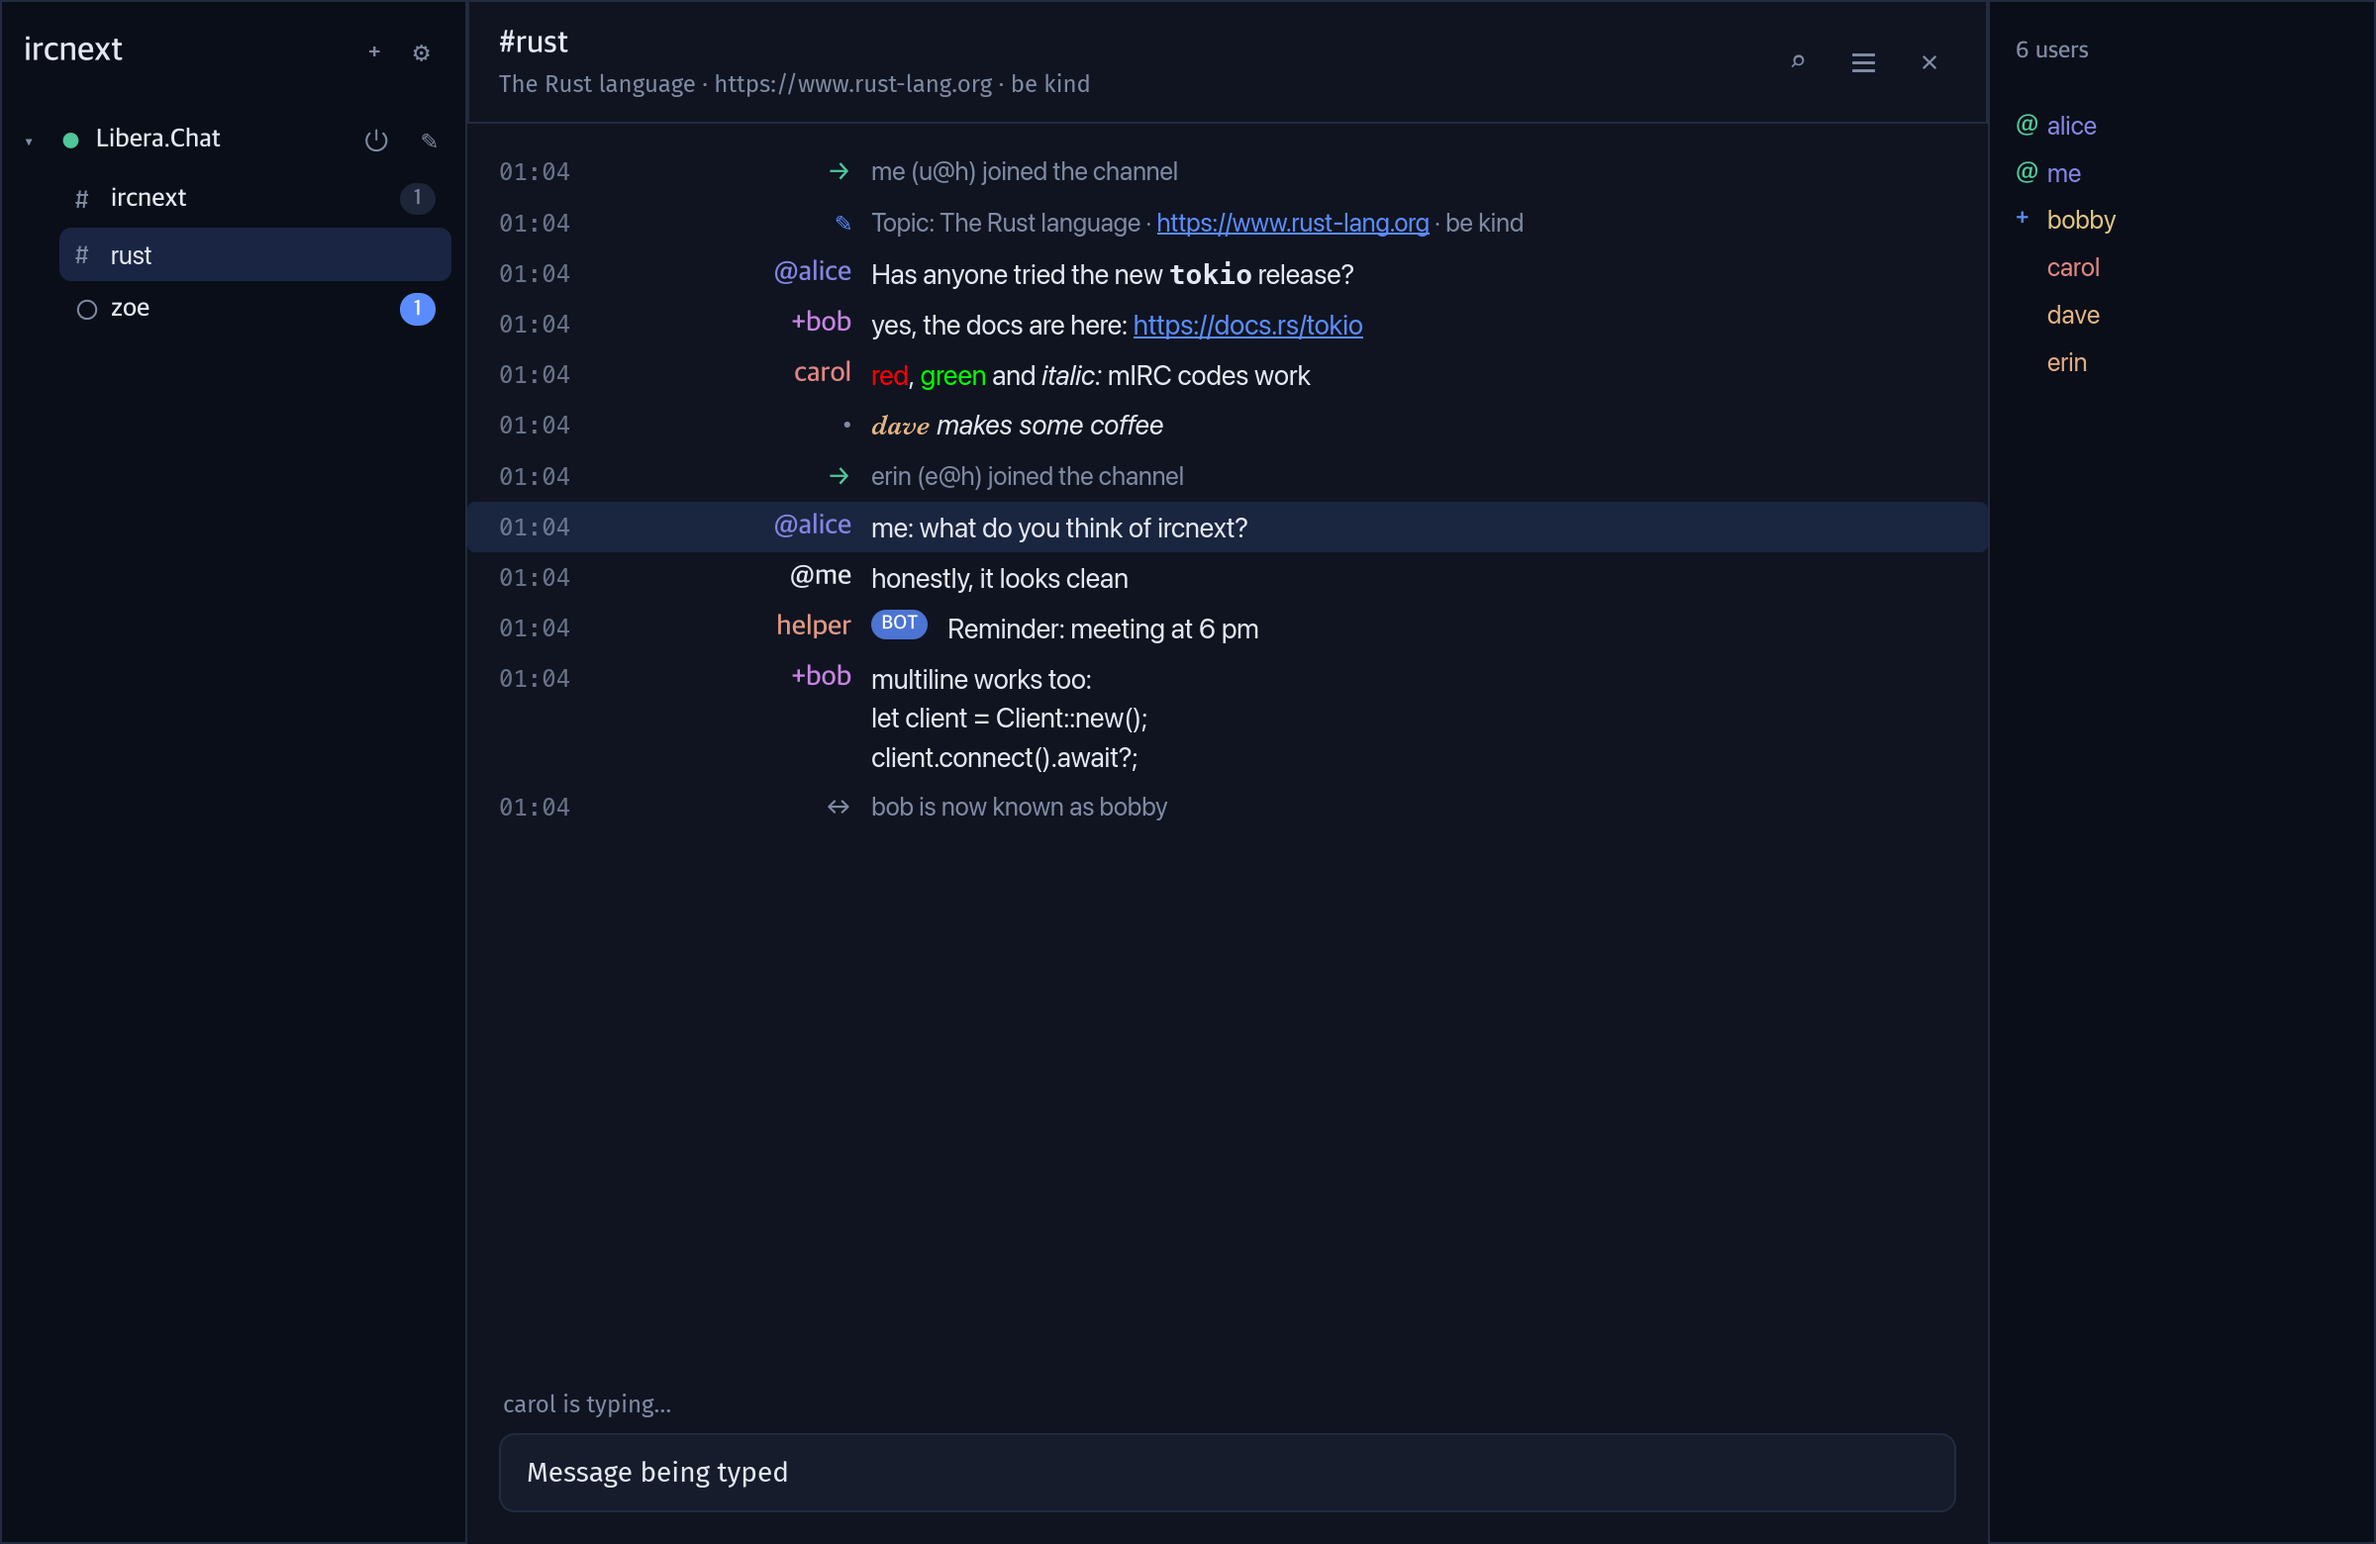
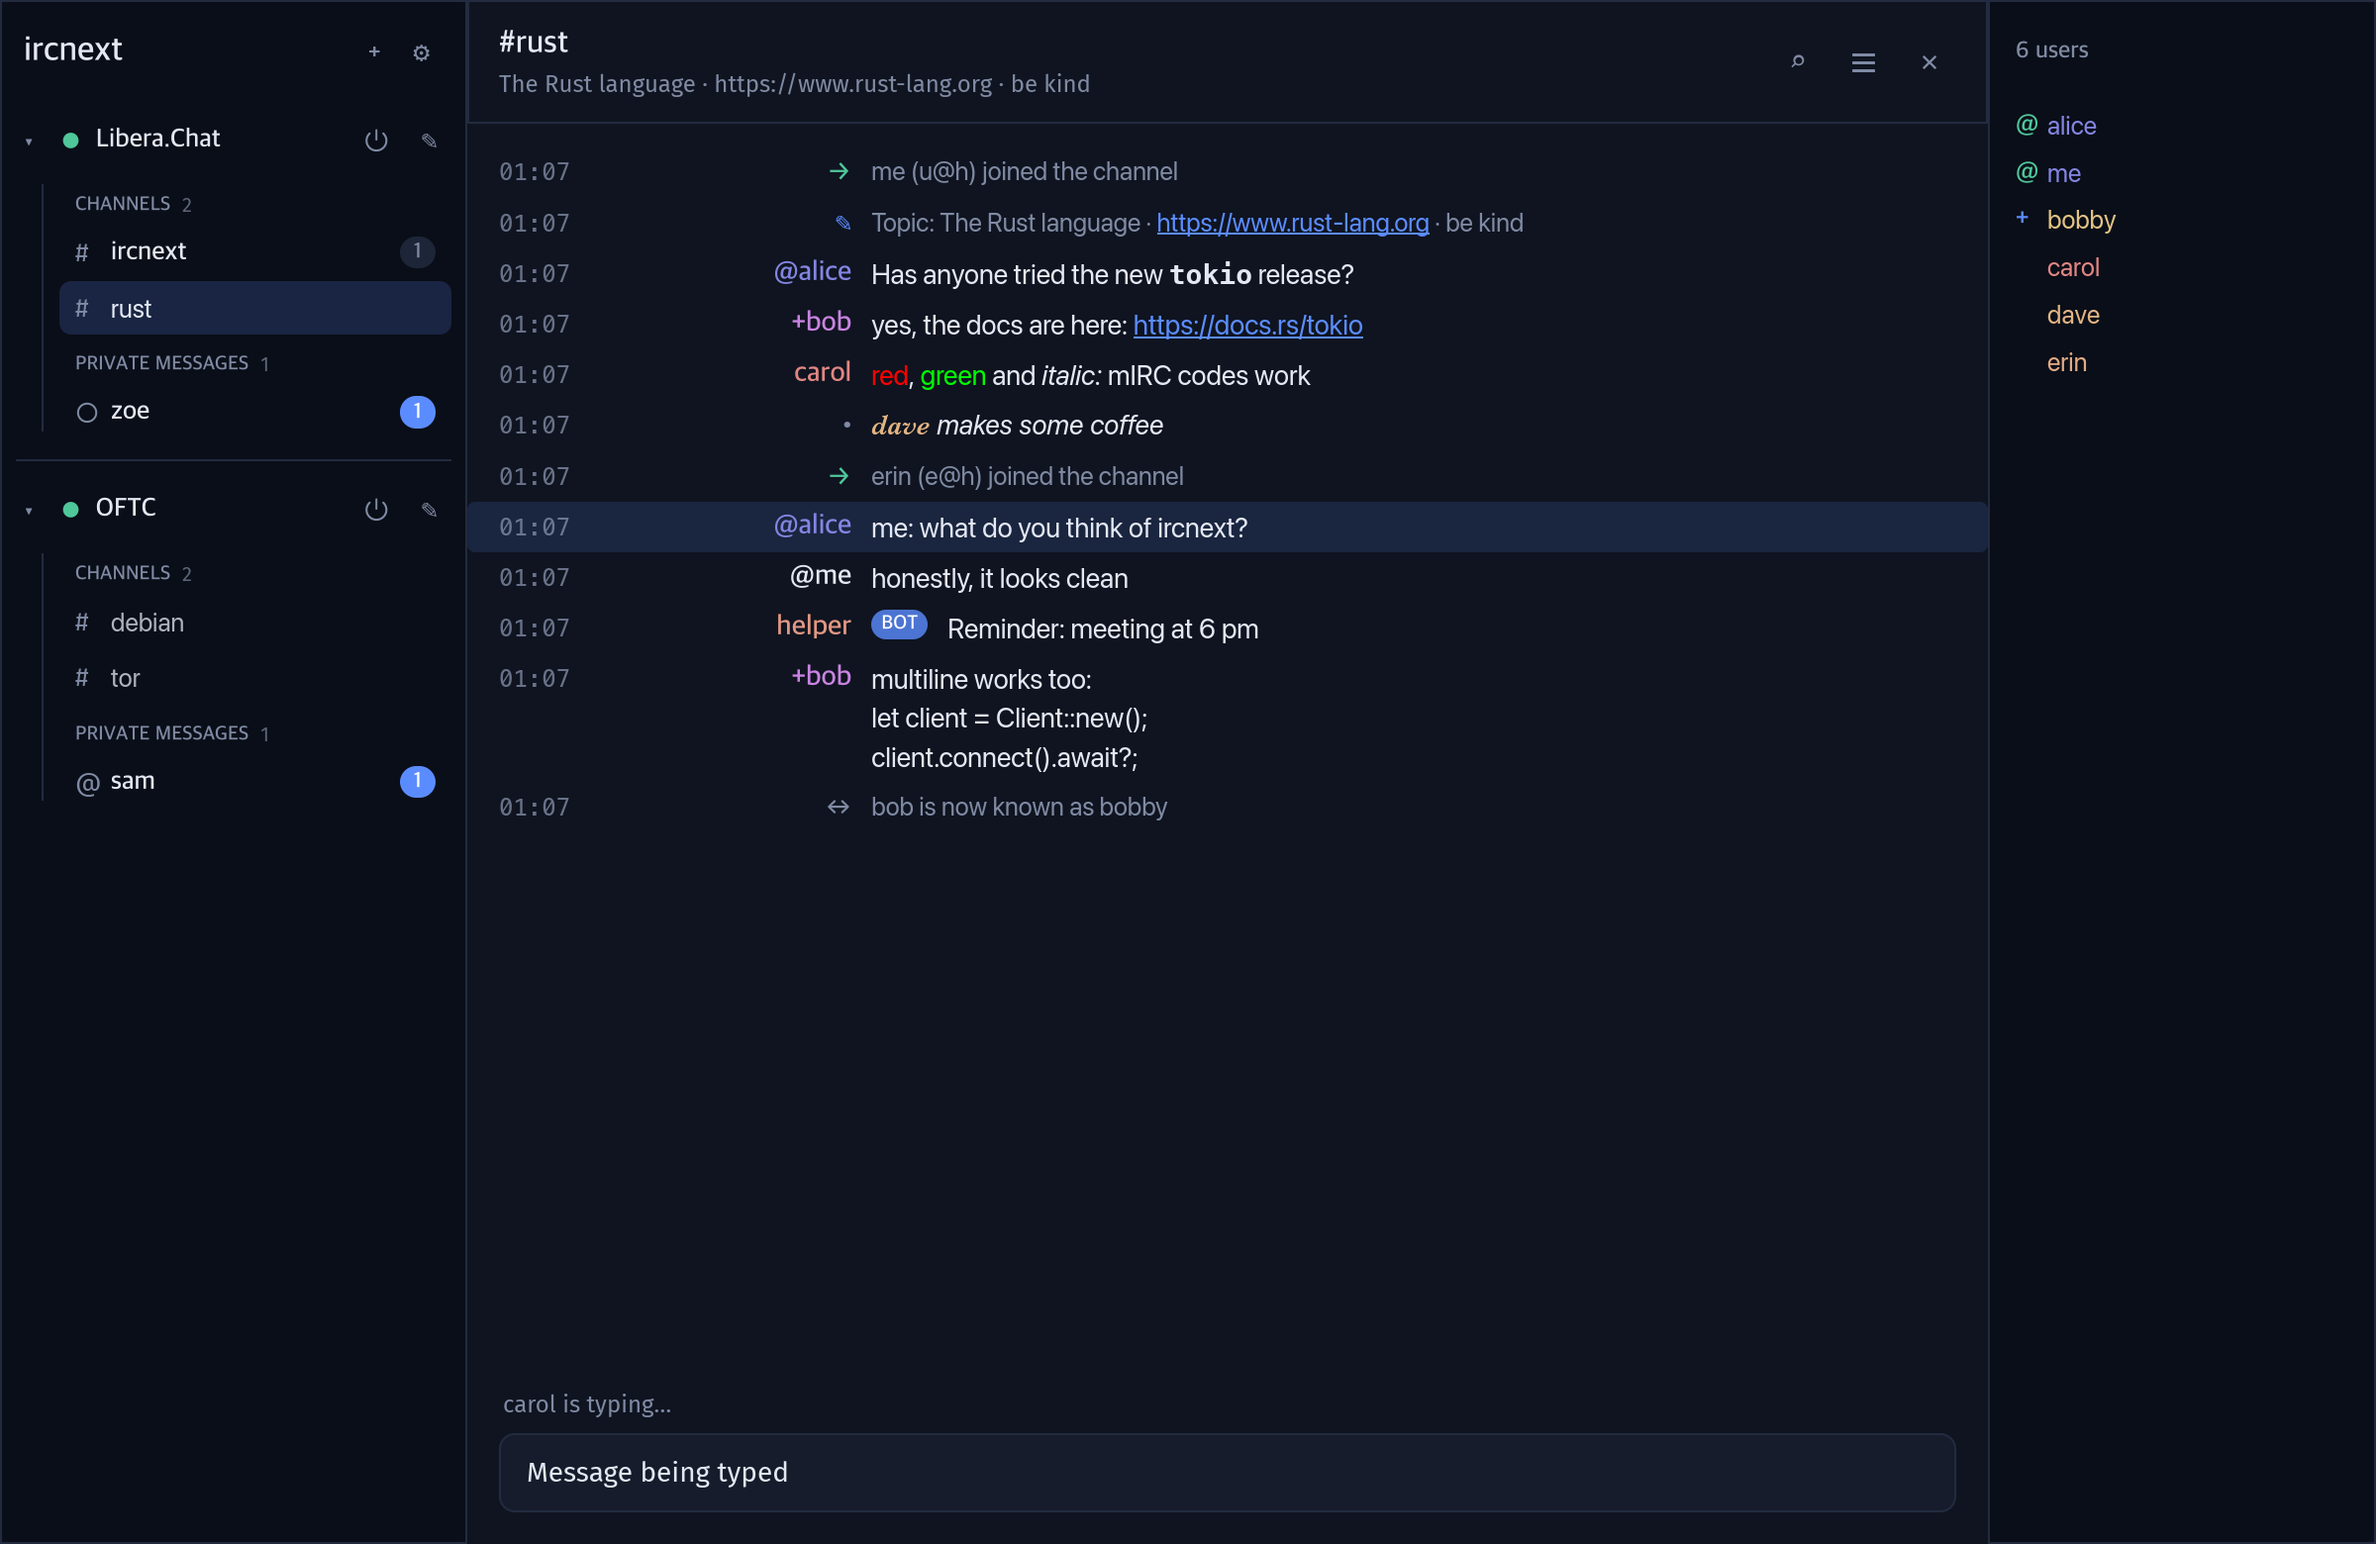
Make the sidebar hierarchy clearer
Networks are set apart by a line, their tabs are grouped under
Channels and Private messages headings with their count, and a vertical
guide links the tabs to their network. Screenshots now show two
networks.

diff --git a/crates/app/src/ui/sidebar.rs b/crates/app/src/ui/sidebar.rs
@@ -1,6 +1,6 @@
 //! Sidebar: networks and tabs, as a tree like in HexChat.
 
-use iced::widget::{button, column, container, row, scrollable, space, text, tooltip};
+use iced::widget::{button, column, container, row, scrollable, space, stack, text, tooltip};
 use iced::{Alignment, Element, Length};
 
 use crate::app::Message;
@@ -24,9 +24,14 @@ pub fn view(servers: &[Server], active: Option<(ServerId, BufferId)>, c: Colors)
     .align_y(Alignment::Center)
     .padding([14, 12]);
 
-    let tree = servers.iter().fold(column![].spacing(10), |tree, server| {
-        tree.push(server_section(server, active, c))
-    });
+    // Networks separated by a thin line, so that each one reads as a block.
+    let mut tree = column![].spacing(10);
+    for (index, server) in servers.iter().enumerate() {
+        if index > 0 {
+            tree = tree.push(container(space().height(1)).width(Length::Fill).style(theme::panel(c.border)));
+        }
+        tree = tree.push(server_section(server, active, c));
+    }
 
     let list: Element<'_, Message> = if servers.is_empty() {
         container(text(tr("No network.\nClick + to add one.")).size(13).color(c.muted))
@@ -108,16 +113,41 @@ fn server_section(server: &Server, active: Option<(ServerId, BufferId)>, c: Colo
         return header.into();
     }
 
-    let items = server
-        .buffers()
-        .filter(|(buffer_id, _)| *buffer_id != server_buffer)
-        .fold(column![].spacing(1), |items, (buffer_id, buffer)| {
-            items.push(buffer_item(server, buffer_id, buffer, active == Some((id, buffer_id)), c))
-        });
+    // Channels, then private conversations, each under a discreet heading.
+    let mut body = column![].spacing(1);
+    for (kind, heading) in [(Kind::Channel, tr("Channels")), (Kind::Query, tr("Private messages"))] {
+        let tabs: Vec<_> = server.buffers().filter(|(_, buffer)| buffer.kind == kind).collect();
+        if tabs.is_empty() {
+            continue;
+        }
+        body = body.push(section_heading(heading, tabs.len(), c));
+        for (buffer_id, buffer) in tabs {
+            body = body.push(buffer_item(server, buffer_id, buffer, active == Some((id, buffer_id)), c));
+        }
+    }
 
-    column![header, container(items).padding(iced::Padding { left: 22.0, ..iced::Padding::ZERO })]
-        .spacing(2)
-        .into()
+    // A vertical guide links the tabs to their network, as in a tree. It is
+    // stacked over the list so that it takes exactly the list's height.
+    let guide = container(container(space().width(1).height(Length::Fill)).style(theme::panel(c.border)))
+        .padding(iced::Padding { left: 13.0, top: 4.0, bottom: 4.0, ..iced::Padding::ZERO })
+        .height(Length::Fill);
+    let tree = stack![
+        container(body.width(Length::Fill)).padding(iced::Padding { left: 22.0, ..iced::Padding::ZERO }),
+        guide,
+    ];
+
+    column![header, tree].spacing(4).into()
+}
+
+/// Small uppercase heading of a group of tabs, with its count.
+fn section_heading(label: &str, count: usize, c: Colors) -> Element<'_, Message> {
+    row![
+        text(label.to_uppercase()).size(10).font(BOLD).color(c.muted),
+        text(count.to_string()).size(10).color(c.muted.scale_alpha(0.7)),
+    ]
+    .spacing(6)
+    .padding(iced::Padding { top: 8.0, right: 8.0, bottom: 3.0, left: 8.0 })
+    .into()
 }
 
 fn buffer_item<'a>(

diff --git a/crates/app/src/app.rs b/crates/app/src/app.rs
@@ -1315,6 +1315,21 @@ mod tests {
 
     fn snapshots_in(language: i18n::Language, dir: &std::path::Path) {
         let mut app = demo();
+        // A second network, to show how networks are set apart.
+        let oftc = app.add_server(ServerEntry {
+            name: "OFTC".into(),
+            auto_connect: false,
+            on_connect: Vec::new(),
+            connection: Config { host: "irc.oftc.net".into(), nick: "me".into(), ..Config::default() },
+        });
+        let registered = Registered { nick: "me".into(), caps: vec![], sts: None, sasl_refused: false, multiline: None };
+        let _ = app.update(Message::Client(oftc, Event::Registered(registered)));
+        for line in [":me!u@h JOIN #debian", ":me!u@h JOIN #tor", ":sam!s@h PRIVMSG me :ping"] {
+            let message: IrcMessage = line.parse().unwrap();
+            let _ = app.update(Message::Client(oftc, Event::Message(message)));
+        }
+        let rust = app.servers[0].find("#rust").unwrap();
+        let _ = app.update(Message::Select(app.servers[0].id, rust));
         app.config.settings.language = language;
         i18n::set_language(language);
         for mode in ThemeMode::ALL.into_iter().skip(1) {

diff --git a/CHANGELOG.md b/CHANGELOG.md
@@ -17,6 +17,8 @@ This project follows [semantic versioning](https://semver.org). The format is ba
 
 ### Changed
 
+- Clearer sidebar: each network is a block set apart by a line, its tabs are grouped under “Channels” and “Private messages” headings with their count, and a vertical guide links them to their network.
+
 - Two networks can no longer have the same name.
 - Code, comments and documentation are in English; the README is also available in French.
 
